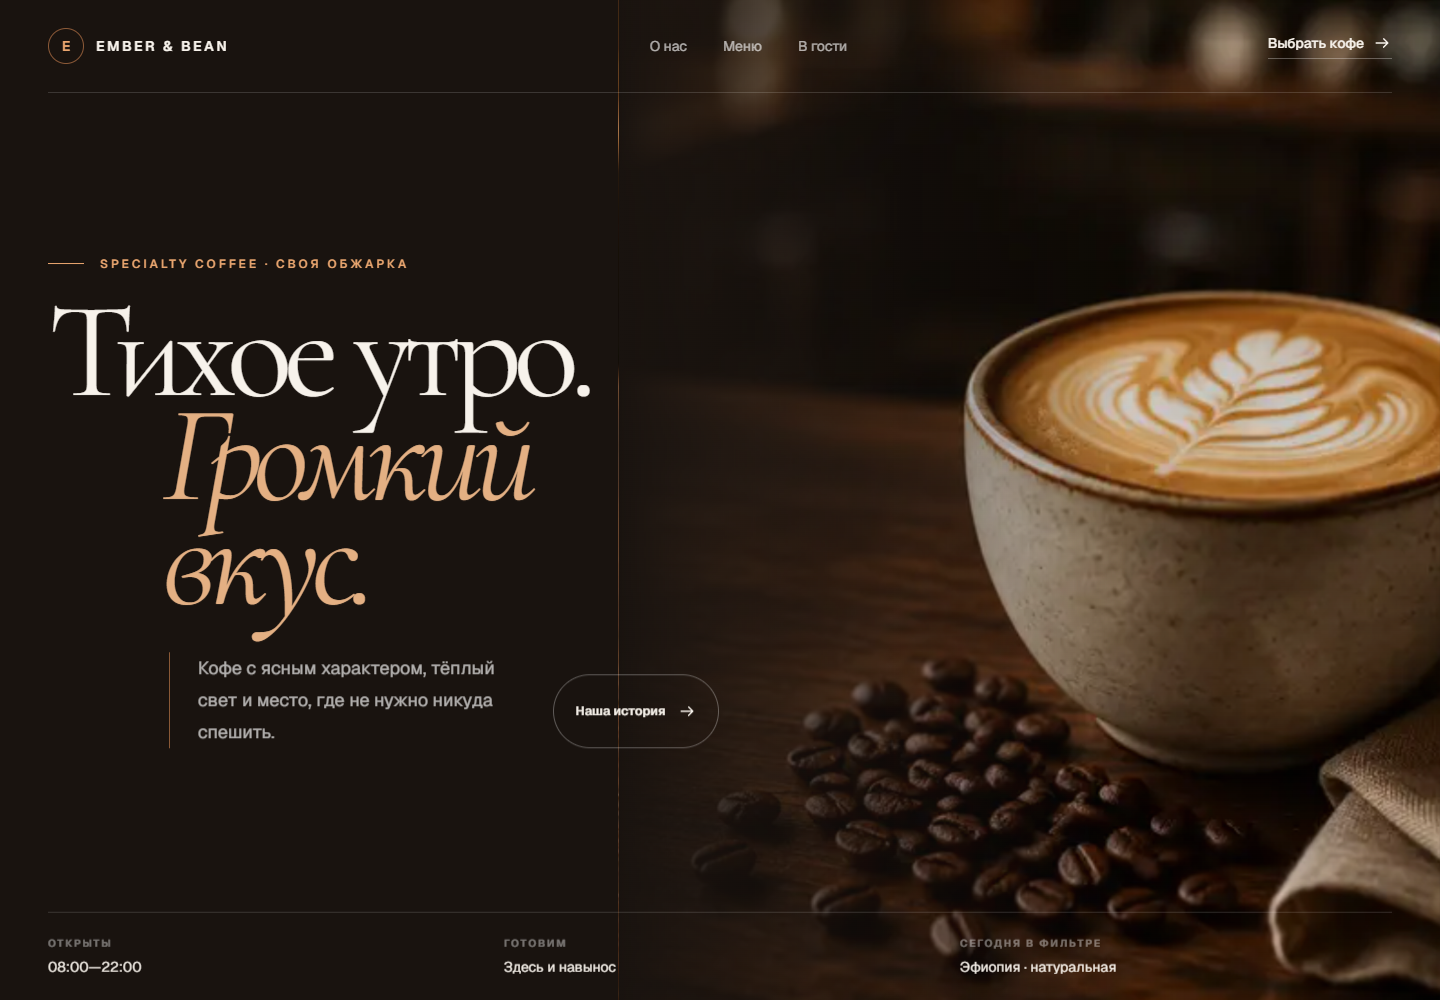
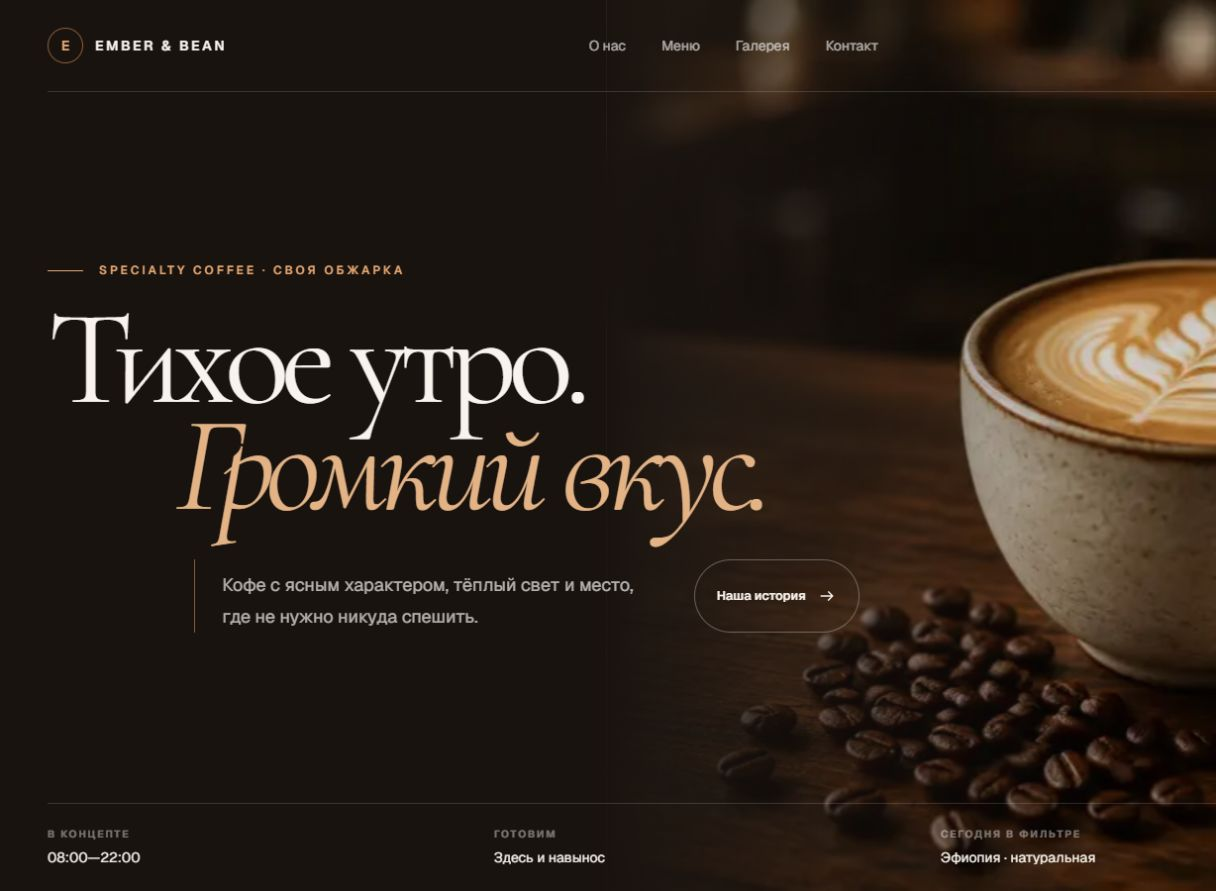
feat: refresh Ember and Bean case

diff --git a/src/app/page.tsx b/src/app/page.tsx
@@ -6,7 +6,7 @@ type Project = { index: string; title: string; description: string; result: stri
 
 const projects: Project[] = [
   { index: "01", title: "Сайт-портфолио", description: "Задача: собрать узнаваемую личную страницу, на которой проекты легко посмотреть и открыть.", result: "Результат: адаптивный сайт на Next.js с авторской иллюстрацией и прямыми ссылками на работы.", tags: ["Next.js", "TypeScript", "UI"], preview: "/previews/portfolio.png", liveUrl: "https://portfolio-kappa-teal-36.vercel.app", githubUrl: "https://github.com/blagone/portfolio", caseUrl: "/projects/portfolio", accent: "card-coral" },
-  { index: "02", title: "Ember & Bean", description: "Задача: придумать и реализовать выразительный концепт сайта specialty-кофейни.", result: "Результат: тёплый адаптивный лендинг с цельной айдентикой и интерактивной навигацией.", tags: ["React", "Концепт", "Responsive"], preview: "/previews/coffee.png", liveUrl: "https://coffee-landing-kohl.vercel.app", githubUrl: "https://github.com/blagone/coffee-landing", caseUrl: "/projects/ember-bean", accent: "card-sage" },
+  { index: "02", title: "Ember & Bean", description: "Задача: выстроить цельный цифровой образ specialty-кофейни и провести посетителя от истории к меню.", result: "Результат: адаптивный Next.js-концепт с 10-позиционным меню, галереей, motion-системой и понятным CTA.", tags: ["Next.js", "TypeScript", "Motion"], preview: "/previews/coffee.png", liveUrl: "https://coffee-landing-kohl.vercel.app", githubUrl: "https://github.com/blagone/coffee-landing", caseUrl: "/projects/ember-bean", accent: "card-sage" },
   { index: "03", title: "Flowboard", description: "Задача: превратить ежедневное планирование в понятный рабочий процесс без регистрации и лишних экранов.", result: "Результат: адаптивная PWA-доска с архивом, тегами, поиском, аналитикой и переносимыми JSON-резервными копиями.", tags: ["Next.js", "TypeScript", "PWA"], preview: "/previews/flowboard.png", liveUrl: "https://flowboard-blagone.vercel.app", githubUrl: "https://github.com/blagone/task-board", caseUrl: "/projects/flowboard/case", accent: "card-sun" },
 ];
 

diff --git a/src/app/projects/ember-bean/page.tsx b/src/app/projects/ember-bean/page.tsx
@@ -7,13 +7,13 @@ export default function EmberBeanCase() {
   return <CasePage
     eyebrow="кейс 02"
     title="Ember & Bean"
-    intro="Выразительный концепт адаптивного сайта specialty-кофейни с тёплой айдентикой."
+    intro="Адаптивный Next.js-концепт specialty-кофейни с тёплой айдентикой и цельным пользовательским сценарием."
     preview="/previews/coffee.png"
     previewAlt="Главная страница сайта Ember & Bean"
-    task="Придумать и реализовать выразительный концепт сайта specialty-кофейни."
-    solution="Тёплая палитра, цельная айдентика и интерактивная навигация собраны в адаптивном интерфейсе на React."
-    result="Получился цельный лендинг, который знакомит посетителя с характером кофейни и одинаково удобно работает на разных экранах."
-    tags={["React", "Концепт", "Responsive"]}
+    task="Создать убедительный цифровой образ specialty-кофейни и провести посетителя от знакомства с брендом к меню и обсуждению похожего проекта."
+    solution="Сценарий выстроен как история: первый экран, три принципа бренда, меню из 10 позиций, атмосферная галерея, подбор зерна для дома и контактный CTA. Анимации появления, ticker и hover-состояния поддерживают ритм, а reduced-motion и focus-visible сохраняют доступность."
+    result="Получился цельный адаптивный концепт на Next.js с оптимизированными изображениями, SEO, аналитикой и честной маркировкой демонстрационного проекта."
+    tags={["Next.js", "TypeScript", "Tailwind CSS", "Responsive", "Motion", "UI/UX"]}
     liveUrl="https://coffee-landing-kohl.vercel.app"
     githubUrl="https://github.com/blagone/coffee-landing"
   />;
